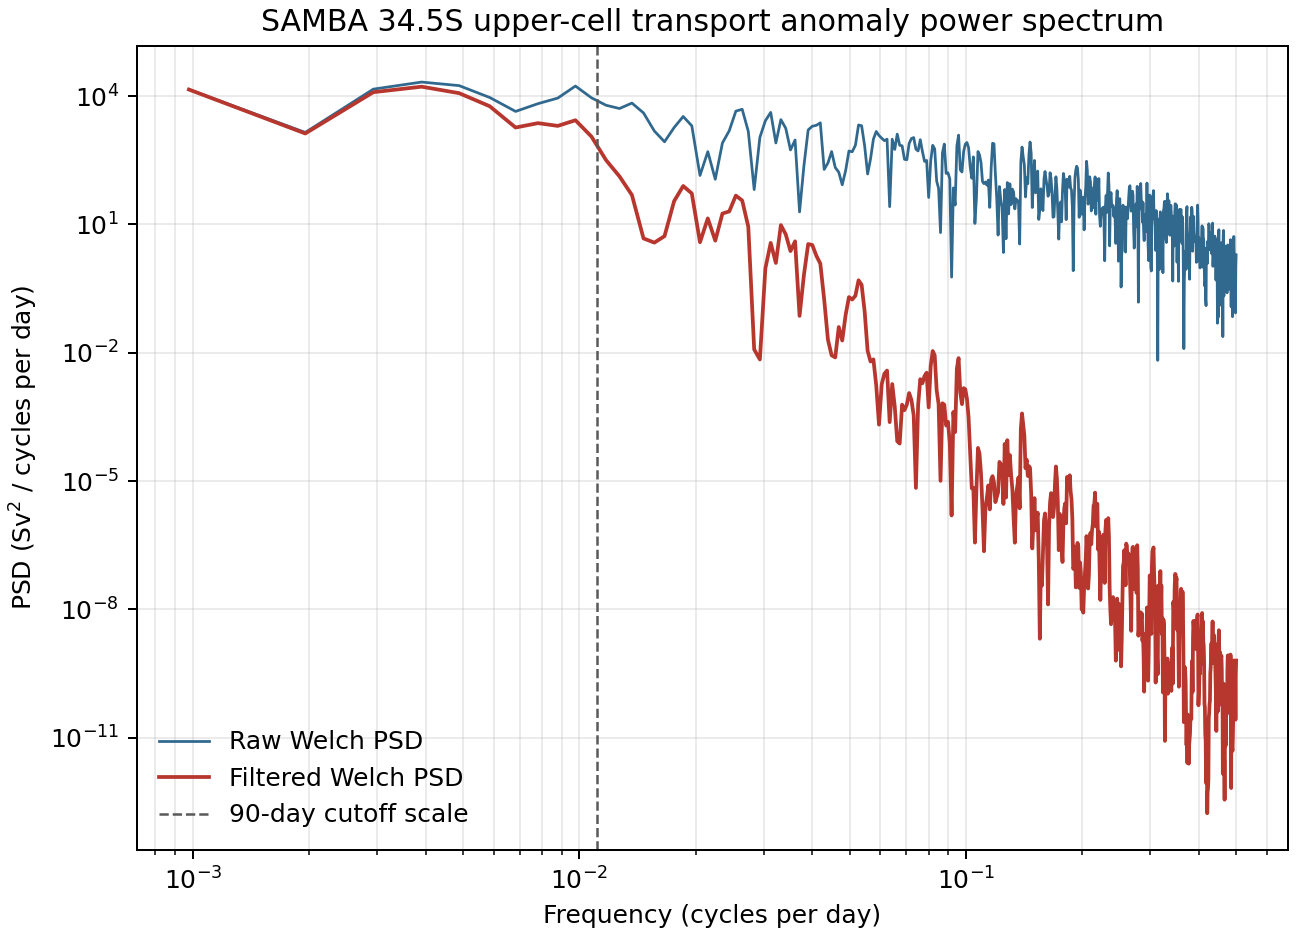
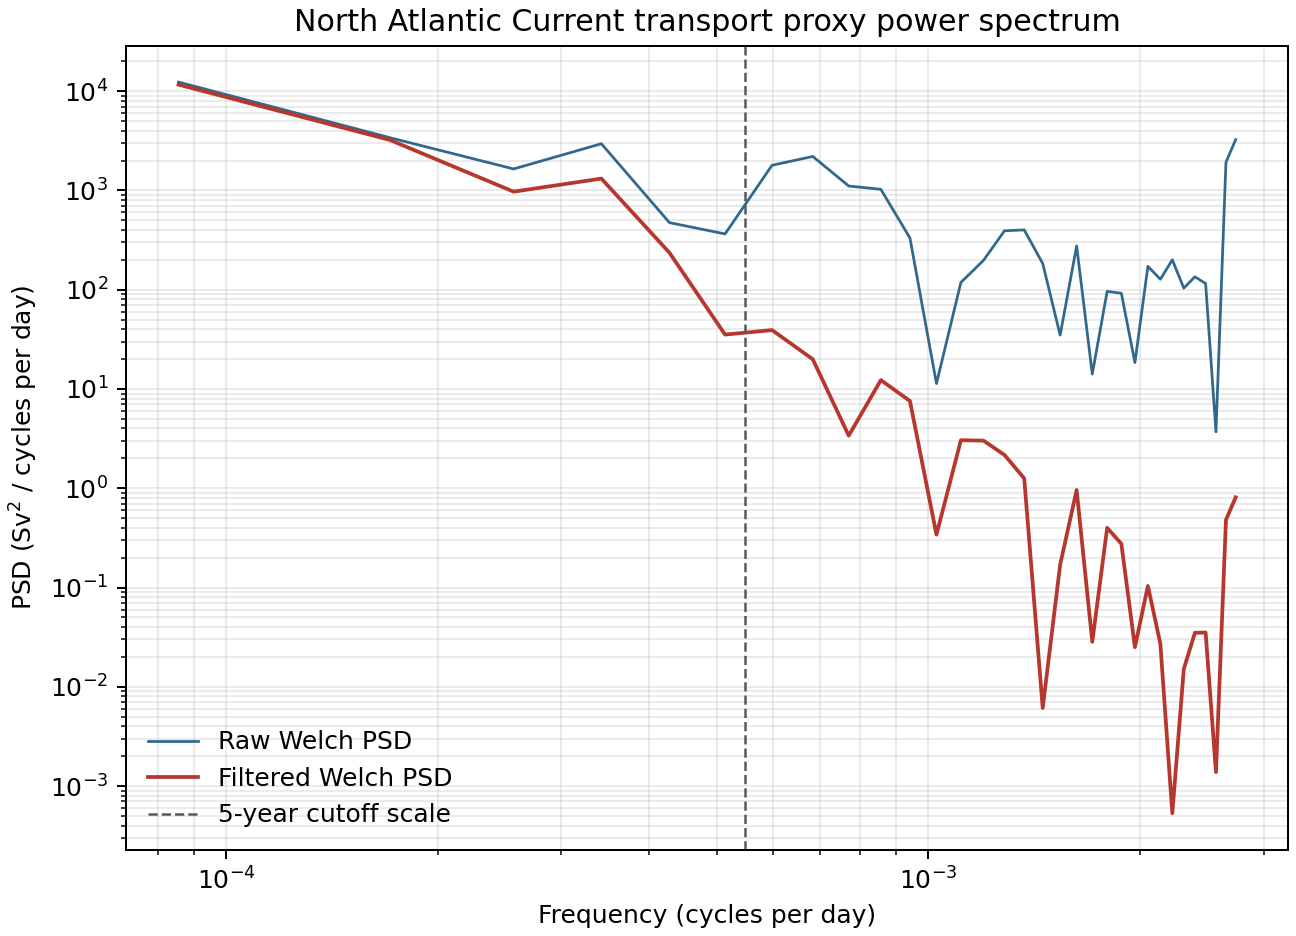
Switch assignment analysis to NAC dataset

diff --git a/assignment_analysis.py b/assignment_analysis.py
@@ -1,4 +1,4 @@
-"""Run Assignment 1 analysis for a SAMBA AMOC time series."""
+"""Run Assignment 1 analysis for a NAC AMOC time series."""
 
 from __future__ import annotations
 
@@ -18,13 +18,13 @@ from spectra_filtering.spectra import parseval_ratio, welch_psd
 FIGURE_DIR = Path("figures")
 OUTPUT_DIR = Path("outputs")
 
-ARRAY_NAME = "SAMBA 34.5S"
-VARIABLE = "UPPER_TRANSPORT"
-VARIABLE_LABEL = "SAMBA 34.5S upper-cell transport anomaly"
+ARRAY_NAME = "NAC"
+VARIABLE = "TRANS_NAC_PROXY"
+VARIABLE_LABEL = "North Atlantic Current transport proxy"
 UNITS = "Sv"
-SEGMENT_LENGTH = 1024
-OVERLAP = 0.5
-LOWPASS_DAYS = 90.0
+SEGMENT_LENGTH = 64
+OVERLAP = 0.0
+LOWPASS_DAYS = 5 * 365.25
 
 
 def _longest_nan_run(values: np.ndarray) -> int:
@@ -46,10 +46,10 @@ def _dominant_timescale_days(freq: np.ndarray, psd: np.ndarray) -> float:
 
 
 def _load_series() -> tuple[np.ndarray, np.ndarray, float]:
-    ds = read.samba()
+    ds = read.nac()
     da = ds[VARIABLE]
     time = da["TIME"].values
-    values = da.values.astype("float64")
+    values = np.squeeze(da.values.astype("float64"))
     dt_days = float(np.median(np.diff(time)) / np.timedelta64(1, "D"))
     return time, values, dt_days
 
@@ -108,7 +108,7 @@ def run() -> dict[str, object]:
 
     fig, ax = plt.subplots(figsize=(10, 4.8), constrained_layout=True)
     ax.plot(time, filled, color="#31688e", linewidth=0.8, alpha=0.7, label="Gap-filled raw")
-    ax.plot(time, filtered, color="#b7372f", linewidth=1.6, label=f"{LOWPASS_DAYS:.0f}-day Tukey low-pass")
+    ax.plot(time, filtered, color="#b7372f", linewidth=1.8, label="5-year Tukey low-pass")
     ax.set_title(f"{VARIABLE_LABEL} time series")
     ax.set_ylabel(f"Transport ({UNITS})")
     ax.set_xlabel("Time")
@@ -133,7 +133,7 @@ def run() -> dict[str, object]:
     positive_f = freq_f > 0
     ax.loglog(freq[positive], psd[positive], color="#31688e", linewidth=1.1, label="Raw Welch PSD")
     ax.loglog(freq_f[positive_f], psd_f[positive_f], color="#b7372f", linewidth=1.5, label="Filtered Welch PSD")
-    ax.axvline(1.0 / LOWPASS_DAYS, color="0.35", linestyle="--", linewidth=1.0, label="90-day cutoff scale")
+    ax.axvline(1.0 / LOWPASS_DAYS, color="0.35", linestyle="--", linewidth=1.0, label="5-year cutoff scale")
     ax.set_title(f"{VARIABLE_LABEL} power spectrum")
     ax.set_xlabel("Frequency (cycles per day)")
     ax.set_ylabel(f"PSD ({UNITS}$^2$ / cycles per day)")

diff --git a/report.md b/report.md
@@ -1,63 +1,60 @@
-# Assignment 1: Characterising a SAMBA AMOC Time Series
+# Assignment 1: Characterising a NAC AMOC Time Series
 
 BBF0104yuxiangluan
 
 ## Data choice
 
-This analysis uses the SAMBA 34.5S observing array from AMOCatlas and the
-`UPPER_TRANSPORT` variable. This series is the upper-cell volume transport
-anomaly in Sverdrups (Sv). I chose SAMBA because it provides an AMOC-related
-time series from the South Atlantic and does not duplicate the MOCHA/RAPID 26N
-dataset assigned to another student.
+This analysis uses the North Atlantic Current (NAC) dataset from AMOCatlas and
+the `TRANS_NAC_PROXY` variable. This series is a six-monthly transport proxy in
+Sverdrups (Sv), based on satellite altimetry and float observations. I chose the
+NAC dataset because it provides an AMOC-relevant North Atlantic transport time
+series and does not duplicate the datasets selected by other students.
 
-The record spans 2013-09-12 to 2017-07-16. It contains 1,404 daily samples, with
-a median sampling interval of 1.0 day. There are no missing values in the
-standardised series, so no interpolation was needed. The gap-filling step in the
-script is kept for reproducibility, but it leaves this particular series
-unchanged.
+The record spans 1993-01-01 to 2025-07-02. It contains 66 samples, with a median
+sampling interval of 182.625 days. There are no missing values in the proxy
+series, so no interpolation was needed. The gap-filling step in the script is
+kept for reproducibility, but it leaves this particular series unchanged.
 
 ## Time-domain statistics
 
-The upper-cell transport anomaly has a mean of -0.003 Sv, which is essentially
-zero as expected for an anomaly series. The standard deviation is 15.51 Sv,
-showing substantial variability around the mean. The median is 0.35 Sv. The
-minimum and maximum are -50.28 Sv and 52.69 Sv, giving a total range of
-102.97 Sv. The histogram shows that most values are clustered near zero, but the
-series also includes large positive and negative transport anomalies.
+The NAC transport proxy has a mean of 27.16 Sv and a standard deviation of
+1.74 Sv. The median is 27.21 Sv. The minimum and maximum are 23.30 Sv and
+30.63 Sv, giving a total range of 7.33 Sv. The histogram shows that the values
+are concentrated around the high-20s Sv, with variability of a few Sverdrups
+around the mean.
 
-![SAMBA upper-cell transport distribution](figures/assignment1_distribution_histogram.png)
+![NAC transport proxy distribution](figures/assignment1_distribution_histogram.png)
 
-The raw time series contains strong day-to-day and multi-week variability. I
-applied a 90-day Tukey-window low-pass filter using a centred 91-sample rolling
-window. The filtered curve removes much of the short-timescale variability and
-highlights slower changes in the upper-cell transport anomaly.
+The raw time series shows interannual to decadal variability in the NAC
+transport proxy. Because the data are sampled every six months, I applied a
+5-year Tukey-window low-pass filter using an 11-sample centred rolling window.
+This filter suppresses shorter interannual fluctuations and highlights slower
+multi-year changes in the transport proxy.
 
-![Raw and filtered SAMBA upper-cell transport](figures/assignment1_timeseries_raw_filtered.png)
+![Raw and filtered NAC transport proxy](figures/assignment1_timeseries_raw_filtered.png)
 
 ## Frequency-domain statistics
 
-I estimated the power spectral density using Welch's method with Hann windows,
-1024-sample segments, and 50 percent overlap. Since the data are daily, each
-segment spans 1024 days. This segment length is long enough to retain useful
-low-frequency resolution for the relatively short SAMBA record, while still
-using overlapped segment averaging rather than a single raw periodogram.
+I estimated the power spectral density using Welch's method with a Hann window,
+a 64-sample segment length, and no overlap. The record is short, so this
+configuration is close to a tapered periodogram, but it keeps nearly the full
+record length and gives a stable variance budget. The segment length corresponds
+to about 32 years because the sampling interval is approximately half a year.
 
-The integrated Welch spectrum satisfies the Parseval variance check. The ratio
-between integrated PSD and time-domain variance is 1.002 for the raw series,
-which is very close to 1. This indicates that the spectral normalisation is
-consistent with the variance of the time series. The largest spectral peak in
-this estimate corresponds to a timescale of about 256 days. Overall, the
-spectrum has stronger low-frequency than high-frequency variance, suggesting a
-red spectrum with variability concentrated at multi-month and longer
-timescales.
+The integrated spectrum satisfies the Parseval variance check. The ratio between
+integrated PSD and time-domain variance is 0.996 for the raw series, which is
+very close to 1. This indicates that the spectral normalisation is consistent
+with the variance of the time series. The largest spectral peak in this estimate
+corresponds to a timescale of about 32 years. Given the short record, this peak
+should be interpreted cautiously as low-frequency variability over the full
+record rather than as a precisely resolved oscillation.
 
-The 90-day Tukey low-pass filter reduces spectral power at frequencies above
-about 1/90 cycles per day. The filtered spectrum therefore lies below the raw
-spectrum at higher frequencies, while retaining more of the lower-frequency
-variance. This behaviour is consistent with the goal of isolating slower AMOC
-transport variability.
+The 5-year Tukey low-pass filter reduces power at higher frequencies while
+retaining the lower-frequency part of the spectrum. The filtered spectrum lies
+below the raw spectrum at shorter timescales, which is the expected behaviour of
+a low-pass filter designed to isolate slower AMOC-related transport variability.
 
-![Raw and filtered SAMBA upper-cell spectrum](figures/assignment1_spectrum_raw_filtered.png)
+![Raw and filtered NAC transport proxy spectrum](figures/assignment1_spectrum_raw_filtered.png)
 
 ## Reproducibility
 
@@ -68,6 +65,6 @@ python assignment_analysis.py
 pytest -q
 ```
 
-The script downloads/loads the SAMBA dataset through AMOCatlas, writes the
-figures to `figures/`, and writes the numerical summary to
+The script downloads/loads the NAC dataset through AMOCatlas, writes the figures
+to `figures/`, and writes the numerical summary to
 `outputs/assignment1_summary.json`.

diff --git a/README.md b/README.md
@@ -1,8 +1,8 @@
-# Assignment 1: SAMBA AMOC Time-Series Characterisation
+# Assignment 1: NAC AMOC Time-Series Characterisation
 
 This repository contains my solution for Assignment 1 in Data Analysis in
-Physical Oceanography. The analysis characterises the SAMBA 34.5S upper-cell
-transport anomaly (`UPPER_TRANSPORT`) in the time and frequency domains.
+Physical Oceanography. The analysis characterises the North Atlantic Current
+transport proxy (`TRANS_NAC_PROXY`) in the time and frequency domains.
 
 ## Contents
 
@@ -12,12 +12,12 @@ transport anomaly (`UPPER_TRANSPORT`) in the time and frequency domains.
   helper functions used by the analysis.
 - `tests/test_assignment1_requirements.py` contains the required tests for the
   mean calculation and Parseval PSD check.
-- `figures/assignment1_timeseries_raw_filtered.png` shows the raw and 90-day
+- `figures/assignment1_timeseries_raw_filtered.png` shows the raw and 5-year
   Tukey-filtered time series.
 - `figures/assignment1_spectrum_raw_filtered.png` shows the raw and filtered
   Welch spectra.
 - `figures/assignment1_distribution_histogram.png` shows the distribution of
-  the selected transport anomaly series.
+  the selected NAC transport proxy series.
 - `report.md` is the short written report.
 
 ## Reproduce
@@ -28,4 +28,4 @@ python assignment_analysis.py
 pytest -q
 ```
 
-The data are loaded with AMOCatlas using `read.samba()`.
+The data are loaded with AMOCatlas using `read.nac()`.